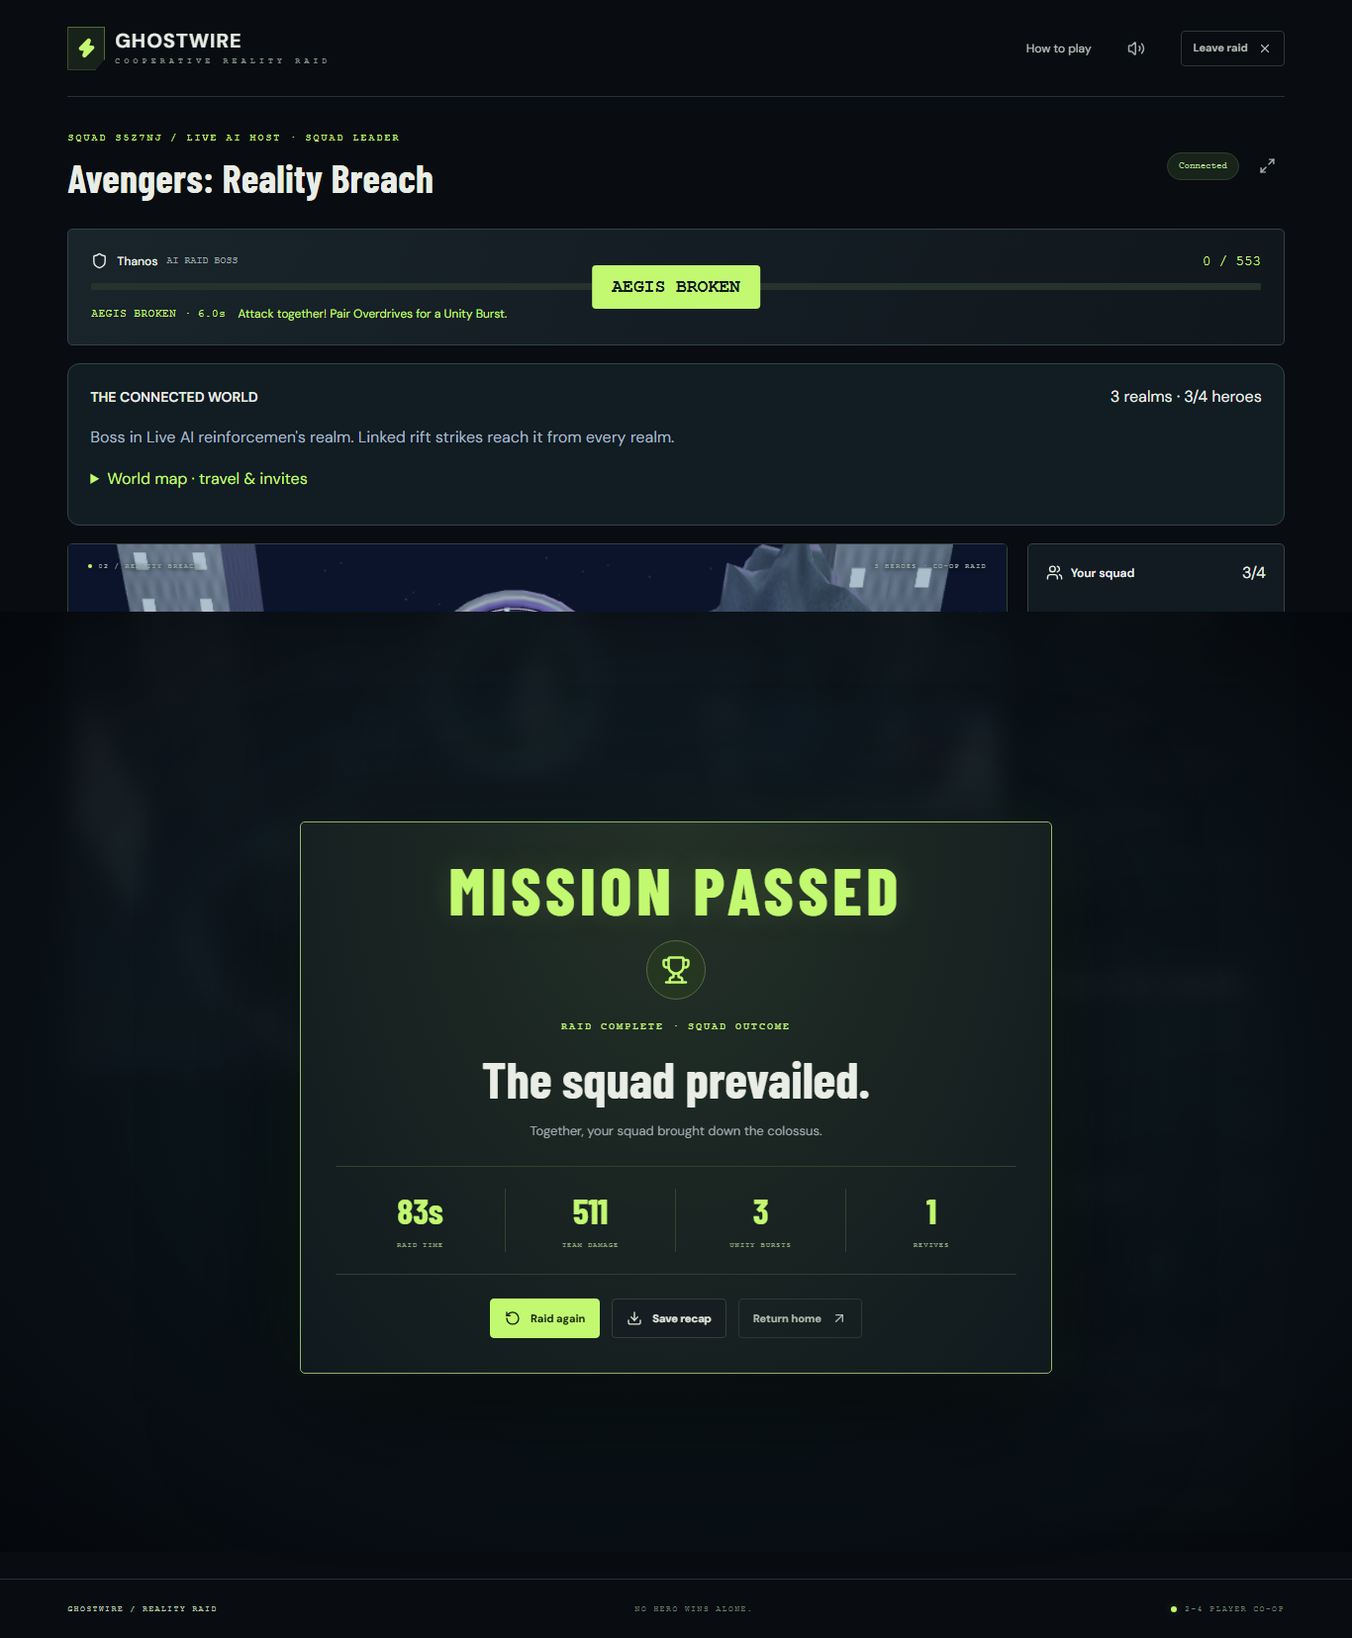
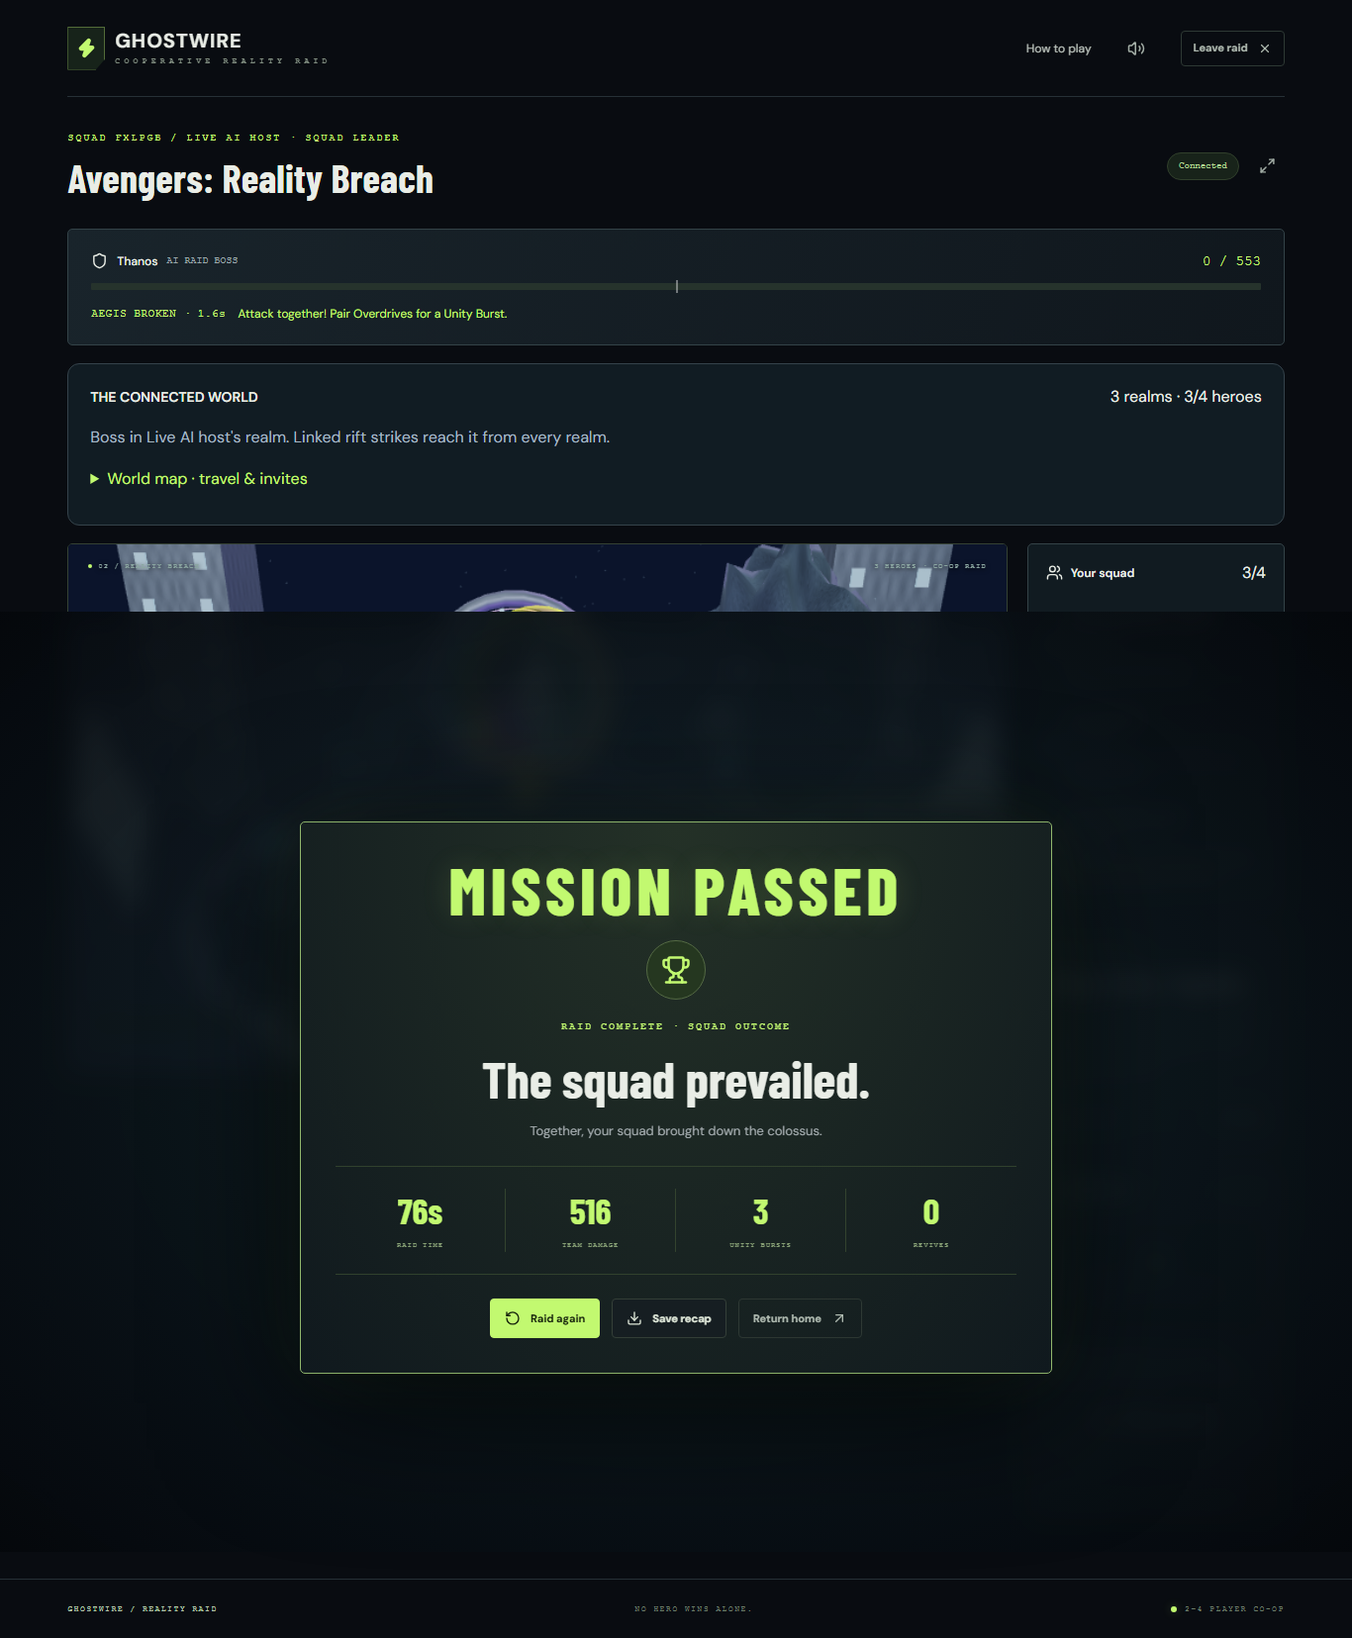
docs: publish verified AI multiplayer results

Changed region(s): [[0.1537, 0.2465, 0.4919, 0.2773], [0.4305, 0.1541, 0.5842, 0.2157], [0.4305, 0.7396, 0.4612, 0.7704]]

diff --git a/SUBMISSION.md b/SUBMISSION.md
@@ -7,7 +7,7 @@ Project details for the repository the owner identified as their Devin Hack Koch
 - **Project name:** GHOSTWIRE: REALITY RAID
 - **Short description:** A browser 3D cooperative raid for 2–4 heroes against one AI boss. Every joining device expands the world with an owned realm; heroes travel through rifts, the boss invades, and reinforcements can join during play. Link attacks/powers, rescue allies and survive camera-backed Reality Breach for a shared Mission Passed/Failed result. A prompt-based creator previews editable procedural 3D heroes, boss, environment, powers, keys and recognized gestures through optional OpenAI generation or explicit local blueprints.
 - **Code repository URL:** https://github.com/Devadathan69/GhostWire
-- **Final submitted implementation commit SHA:** [19e7846a191fdc5e816c3f35b4f0c7982c4c8d25](https://github.com/Devadathan69/GhostWire/commit/19e7846a191fdc5e816c3f35b4f0c7982c4c8d25). This is the verified connected-world/creative-forge implementation pushed to the owner-identified submitted repository, including protected arrivals and completed verification. The following publication record changes documentation only. Earlier cooperative/versus milestones remain in preserved history; organizer handoff is not independently confirmed.
+- **Final submitted implementation commit SHA:** [7a827086b7e6c3f7fccc5aa110f06ef235bb6719](https://github.com/Devadathan69/GhostWire/commit/7a827086b7e6c3f7fccc5aa110f06ef235bb6719). This revision includes the live-AI verification fixture, connected worlds/creator, compact phone updates, graphics/reconnect recovery and readable generated power controls. It was checkpointed while final verification was running, then passed the complete public three-client generated raid through victory and rematch. The following publication record updates documentation/evidence only. Earlier milestones remain in preserved history; organizer handoff is not independently confirmed.
 - **Working demo URL or local demo steps:** Run the commands below and open `http://localhost:3001`. On Windows, `Start-Phone-Test.cmd` creates a temporary HTTPS address for both devices; [the phone walkthrough](docs/PHONE_TEST.md) explains the complete match. A permanent hosted demo URL has not been provisioned.
 - **Demo access requirements:** Node.js 22.12+, npm, WebGL 2 browser, initial-install internet and 2–4 humans for a main raid. Training supplies an explicit AI ally. Presets/local blueprints require no account/key. AI creation requires a private server OpenAI API key and model access. Cameras require permission/HTTPS; manual controls remain available.
 
@@ -26,7 +26,7 @@ Only the repository owner's GitHub identity has been supplied. Additional partic
 - **Required environment variable names:** None for curated encounters/local gameplay. Optional server settings in [.env.example](.env.example): `OPENAI_API_KEY`, `OPENAI_MODEL`, `PORT`, `PUBLIC_URL`, and `ALLOWED_ORIGINS`. Camera video is local-only, requiring no TURN service. No live credentials are included.
 - **Start command:** `npm start`, then open `http://localhost:3001`; alternatively use `Start-Ghostwire.cmd` on Windows. Use `Start-Phone-Test.cmd` or `npm run phone:start` for temporary HTTPS phone access.
 - **Demo walkthrough:** Create a raid or preview/edit a custom world, share the invite and ready the heroes. Show separate owned realms, watching with paused controls, rift travel, boss invasions and a third device joining live. Link strikes/Overdrives across realms, rescue a nearby ally, enter local-camera Reality Breach and finish at a shared result/rematch. Custom heroes show their actual bindings in the power guide. See [demo script](docs/DEMO_SCRIPT.md), [upgrade phases](docs/EXPANDING_WORLDS.md) and [exact controls](docs/CONTROLS.md).
-- **Checks performed and results:** Production build and TypeScript passed, with 134 rules/network/creator/motion checks in twelve files. The earlier connected-world browser suite passed all 11 scenarios in 7.7 minutes. One real gpt-6.1-sol request succeeded in 45.8 seconds; its unmodified Thor/Doctor Strange/Iron Man/Thanos encounter is replayed without more API charges. Full three-client browser battles reached shared victory through travel, reinforcement and camera-backed Reality Breach, with every hero contributing real damage. Graphics confirmation retries and compact snapshot round trips are covered. The owner reported Doctor Strange rendering and gestures working on one physical phone. [Test plan](docs/TEST_PLAN.md) and [live-AI evidence/controls](docs/LIVE_AI_VERIFICATION.md) distinguish exact run results and physical coverage.
+- **Checks performed and results:** Production build and TypeScript passed, with 134 rules/network/creator/motion checks in twelve files. The earlier connected-world browser suite passed all 11 scenarios in 7.7 minutes. One real gpt-6.1-sol request succeeded in 45.8 seconds; its unmodified Thor/Doctor Strange/Iron Man/Thanos encounter is replayed without more API charges. The final public three-client raid passed in 2.2 minutes with zero browser errors through generated keys/touch, travel, reinforcement, all ultimate effects, named boss warnings, camera-backed Reality Breach, shared victory and rematch; every hero dealt real damage. Lost graphics confirmation, lost resume message and compact-state round trips are covered. The owner reported Doctor Strange rendering and gestures working on one physical phone. [Test plan](docs/TEST_PLAN.md) and [live-AI evidence/controls](docs/LIVE_AI_VERIFICATION.md) distinguish exact run results and physical coverage.
 - **Known limitations or incomplete features:** Generated designs use supported procedural parts/effects, without exact movie meshes or arbitrary new pose detectors. Real model/account access and one phone's rendering/gestures are verified; broader physical multi-phone/Safari performance, lighting, venue networks, Docker and human code review remain unverified. Browser camera sources are synthetic. Reality Breach composites video without room reconstruction/occlusion. Rooms are in memory; restarts end raids. Temporary HTTPS requires an awake connected laptop. No real-person recording is supplied.
 - **Libraries, APIs, and public datasets used:** React/Vite/TypeScript, Three.js, Node/Express, Socket.IO, MediaPipe pose/hand models, browser camera APIs, Zod, QRCode, Lucide, Fontsource fonts, and optional server-side OpenAI Responses API. Original fighters/arenas/textures/effects and sound are authored in the repository. Sources/licenses are in [THIRD_PARTY_NOTICES.md](docs/THIRD_PARTY_NOTICES.md); no participant dataset is included.
 - **AI usage record:** [AI_USAGE.md](AI_USAGE.md)

diff --git a/docs/LIVE_AI_VERIFICATION.md b/docs/LIVE_AI_VERIFICATION.md
@@ -24,7 +24,8 @@ The six physical recognizers map to Strike / Kick / Guard / Evade / Jump / Overd
 - The exact design completed a **three-client browser raid**: two heroes ready/start, generated keyboard mappings and a touch strike, region travel, late Iron Man reinforcement, scaled boss HP, all three ultimate effects, both named boss warnings, camera-backed Reality Breach, a shared victory and fresh rematch readiness. No server state or outcome was forced.
 - The local full-match run passed in two minutes with zero browser errors. Every generated hero dealt real team damage: Thor 191, Doctor Strange 206 and Iron Man 132 in that run. Actual inputs and authoritative snapshots produced these values; later runs can differ.
 - The owner reported that **Doctor Strange rendered and gestures worked on one physical phone**. An initial physical attempt ended while the laptop hero was idle; zero solo damage is expected under Soul Aegis. This report confirms that phone's rendering/recognition, not an independently observed full physical-device match.
-- The **public HTTPS three-client replay passed cleanly in 2.1 minutes**, including all of the above and zero browser errors. In that run Thor dealt 240 damage, Doctor Strange 149 and Iron Man 90; health scaling preserves the boss's remaining fraction when Iron Man joins, so damage totals need not equal the final scaled maximum. The result screenshot was captured at **05:39:24 +05:30**. This exercised the actual temporary phone service, rather than a local-only match.
+- The **final public HTTPS three-client replay passed cleanly in 2.2 minutes**, including all of the above and zero browser errors. Thor dealt 151 damage, Doctor Strange 265 and Iron Man 100; health scaling preserves the boss's remaining fraction when Iron Man joins, so damage totals need not equal the final scaled maximum. The result screenshot was captured at **05:59:32 +05:30**, followed by verified rematch readiness at **05:59:36 +05:30**. This exercised implementation `7a827086b7e6c3f7fccc5aa110f06ef235bb6719` through the actual temporary phone service, including the final recovery and phone-label fixes.
+- Three final connection regressions also passed together in **2.0 minutes** on that implementation: two complete human-role raids with camera breach/reconnect/rematch, a deliberately lost graphics confirmation and a deliberately lost resume message. The earlier 11-scenario combined suite and this focused final run are separate checks.
 
 The first public replay exposed a graphics-readiness wait. The client now retries its first-frame confirmation until the server acknowledges it. Later testing exposed delayed updates when repeating the generated blueprint and every hero's powers at 20Hz. The complete blueprint now arrives on create/join/resume; replaceable live snapshots carry hero selection indexes and reconstruct the same state on each device. The public two-hero probe shrank from **13,454 bytes to 2,901 bytes per snapshot** (about 78% smaller), with a 288ms graphics confirmation and Arena reached normally in that measured run. Tests preserve every live field, selected profile, duplicate display names and standard presets. These are observed samples, not latency guarantees.
 

diff --git a/AI_USAGE.md b/AI_USAGE.md
@@ -4,6 +4,8 @@ If maintaining this record, briefly document the actual contributions of whichev
 
 ## Event build log
 
+Final live-AI verification at **2026-10-25T06:03:21+05:30**: Codex completed the public three-client generated raid on pushed implementation 7a827086b7e6c3f7fccc5aa110f06ef235bb6719 (2.2 minutes, zero browser errors), with every generated hero dealing damage, travel/reinforcement, all ultimates, named boss warnings, camera-backed breach, shared victory and rematch. Three final connection regressions passed together in 2.0 minutes, including two complete raids and deliberate losses of graphics/resume messages. All 134 automated checks and build/TypeScript pass. Codex copied the successful run's screenshots, documented the exact source revision/checks/limits and prepared a fresh phone invite. This follow-up changes documentation/evidence only; source history is preserved. A 146-file credential-pattern/local-link review and whitespace check passed. One actual paid generation was used; further tests replayed it. The owner reported one physical phone's hero/gestures working; broader hardware coverage and human code review remain unconfirmed.
+
 Reconnect recovery at **2026-10-25T05:53:36+05:30**: Codex found that transient resume timeouts could discard a valid hero identity. It added retryable-error handling, identity-preserving retries and stale-attempt cancellation. A browser test drops the first real resume message over polling/WebSocket and verified the same hero, invite, readiness and slot count recover after timeout (10.3 seconds). Build/TypeScript and all 134 automated checks pass; the refreshed public generated replay follows. Browser readiness/rematch waits now match the actual gates, and generated screenshots use isolated report paths after a Windows shared-file error. The replay driver now defends from the first active frame and follows the boss through ordinary map buttons, respecting damage-cancelled travel and Kick's same-realm rule. Final replay verification remains in progress at this checkpoint. No additional paid generation, forced game outcome, human code review or broader physical-phone claim is made.
 
 Phone transport and presentation at **2026-10-25T05:47:14+05:30**: Codex reduced repeated generated-blueprint traffic with compact live snapshots and selected-profile indexes, added round-trip/selection regressions, corrected narrow phone power-button wrapping and saved actual-output evidence. All 134 automated checks, TypeScript/build, the isolated public three-client generated replay (2.1 minutes), and three training/reconnect/readiness regressions (2.5 minutes) pass. A later phone layout run reached victory but the host briefly disconnected during rematch; the test now respects the existing reconnect window and records success only after rematch. A clean follow-up is in progress. Earlier overlapping test-report failures were corrected by serial runs/separate output folders. No game state, health or outcome was forced. Only the original generation used API credits. The owner's one-phone gesture/rendering report is distinguished from synthetic-browser evidence; human code review and broader physical coverage remain unconfirmed.

diff --git a/docs/TEST_PLAN.md b/docs/TEST_PLAN.md
@@ -40,6 +40,8 @@ All 11 Chromium scenarios passed against the production build in one combined ru
 
 Additional regressions cover a deliberately lost graphics confirmation, the saved real-AI three-client encounter, and a deliberately lost resume message on polling/WebSocket. The resume check passed in 10.3 seconds: after the real request timeout, the same hero, invite, ready state and one occupied slot returned automatically. No session token is printed. Browser commands run serially with separate report folders; generated screenshots are captured in each run's report folder before verified evidence is copied into docs.
 
+On final implementation `7a827086b7e6c3f7fccc5aa110f06ef235bb6719`, the two-human/two-complete-match scenario, lost graphics confirmation and lost resume message passed together in **2.0 minutes** (1.7 minutes, 9.7 seconds and 9.6 seconds respectively). The final generated public replay passed separately in 2.2 minutes. This is distinct from the earlier 11-scenario combined run; a new combined run of all 14 scenarios is not claimed.
+
 Screenshots prefixed `coop-` are current cooperative QA evidence. Camera images are synthetic Chromium sources, not a person or demonstration recording. Earlier screenshots and QA_AUDIT.md describe the former versus game. Traces and temporary browser recordings stay ignored in test-results/.
 
 ## Public phone link
@@ -48,7 +50,7 @@ The HTTPS script passed model/WASM assets, invitations, private hero identities,
 
 The world/creator browser scenarios exercise watching with paused controls, traveling into a shared 3D view, boss arrival, a third live device/renderer, full blueprint preview/edit/save/hero selection, duplicate-key errors, no-key AI errors and a remapped key reaching authoritative combat. They drive real UI inputs and never mutate server game state.
 
-The actual generated encounter also passed a complete **three-client HTTPS raid in 2.1 minutes**, including generated keys/touch, hero selection, travel, live reinforcement, all ultimate effects, named boss warnings, camera-backed Reality Breach, shared victory and rematch, with zero browser errors. Compact updates reuse the full blueprint delivered on create/join/resume; the sampled two-hero public snapshot decreased from 13,454 to 2,901 bytes without relying on edge compression. The exact evidence and limits are in [LIVE_AI_VERIFICATION.md](LIVE_AI_VERIFICATION.md).
+The actual generated encounter also passed a complete **three-client HTTPS raid in 2.2 minutes on the final implementation**, including generated keys/touch, hero selection, travel, live reinforcement, all ultimate effects, named boss warnings, camera-backed Reality Breach, shared victory and rematch, with zero browser errors. Compact updates reuse the full blueprint delivered on create/join/resume; the sampled two-hero public snapshot decreased from 13,454 to 2,901 bytes without relying on edge compression. The exact evidence and limits are in [LIVE_AI_VERIFICATION.md](LIVE_AI_VERIFICATION.md).
 
 ## Live generation and physical confirmation
 

diff --git a/CHANGELOG.md b/CHANGELOG.md
@@ -1,5 +1,12 @@
 # Change log
 
+## 2026-10-25T06:03:21+05:30 — Complete public live-AI multiplayer verification
+
+- Final result: implementation 7a827086b7e6c3f7fccc5aa110f06ef235bb6719 passed the full generated three-client HTTPS raid in 2.2 minutes, with zero browser errors. Thor, Doctor Strange and Iron Man dealt 151, 265 and 100 real damage respectively. Generated keys/touch, connected-region travel, live reinforcement/scaling, all three ultimate effects, both named boss warnings, local-camera Reality Breach, shared victory and rematch readiness passed without forcing state or outcomes.
+- Final regressions: two complete human-role raids with camera breach/reconnect/rematch (1.7 minutes), lost graphics confirmation (9.7 seconds), and lost resume message with the same hero/slot/readiness restored (9.6 seconds) passed together in 2.0 minutes on this revision. All 134 unit/network/creator/motion tests and build/TypeScript passed. Earlier failed report paths, idle/cancelled-travel driving and premature UI waits are documented below; the final checks are green.
+- Evidence/publication: copied screenshots from the completed isolated public run into docs/screenshots, updated the live verification/test/submission records and recorded the exact implementation SHA. The implementation checkpoint was pushed to the authorized Devadathan69/GhostWire main branch; this follow-up changes documentation/evidence only. Credential-pattern review across 146 tracked/candidate files, local Markdown links and whitespace checks passed.
+- Phone handoff: prepared the same saved generation as a fresh human squad with Thor ready on the laptop and an invite for the phone. Live room/QR evidence stays ignored locally. Only the original request used API credits; all replays used its unmodified output. The owner's one-phone rendering/gesture report is confirmed as a report, with broader physical-device coverage and human code review still unverified.
+
 ## 2026-10-25T05:53:36+05:30 — Preserve heroes through a lost reconnect message
 
 - Changed: apps/client/src/networking/session.ts now distinguishes retryable network errors from explicit server rejections. Transient resume failures preserve the private hero identity and automatically retry with controls paused. A version guard cancels stale recovery after leaving, room closure or another accepted session; the server still owns validity and expiry.

diff --git a/README.md b/README.md
@@ -90,7 +90,7 @@ npm run build
 npm run test:e2e
 ```
 
-The suite passes **134 rules/network/creator/motion tests in twelve files**, TypeScript and the production build. The earlier **11 browser scenarios passed in one combined run (7.7 minutes)**, covering complete matches, four-hero combat, camera breach, reconnect, outcomes, travel, expansion and the creator. Additional regressions exercise the actual generated encounter through a full three-client raid and recover a deliberately lost graphics confirmation. Current run details and the distinction between browser and physical-phone checks are in [the test plan](docs/TEST_PLAN.md) and [live AI verification](docs/LIVE_AI_VERIFICATION.md).
+The suite passes **134 rules/network/creator/motion tests in twelve files**, TypeScript and the production build. The earlier **11 browser scenarios passed in one combined run (7.7 minutes)**, covering complete matches, four-hero combat, camera breach, reconnect, outcomes, travel, expansion and the creator. On the final implementation, the generated three-client public HTTPS raid passed through victory/rematch in **2.2 minutes**, and three focused connection scenarios passed together in **2.0 minutes**, including two complete raids and lost graphics/resume messages. Current run details and the distinction between browser and physical-phone checks are in [the test plan](docs/TEST_PLAN.md) and [live AI verification](docs/LIVE_AI_VERIFICATION.md).
 
 Live OpenAI generation is verified, and the owner reported rendering/gestures working on one phone. Broader physical body/hand recognition, multiple Android/iOS devices, venue networks and Docker remain separate checks. Synthetic camera/landmark tests establish integration. Existing versus-mode screenshots and [the earlier audit](docs/QA_AUDIT.md) are historical evidence; current verification is recorded separately.
 
